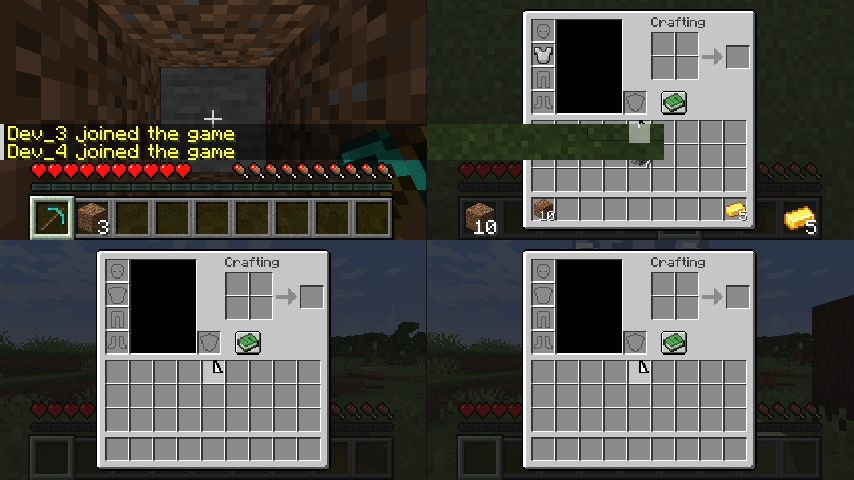
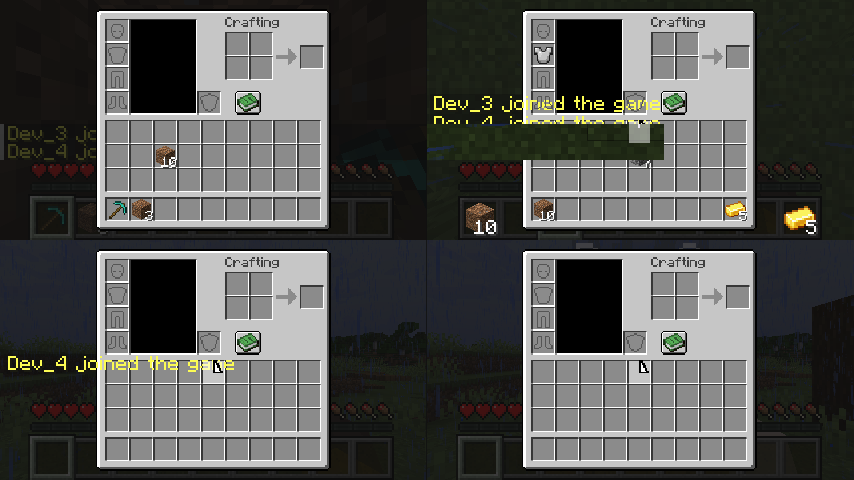
Pantalla de P1 a escala con 4 jugadores (dibujo y raton) + prueba numerica

diff --git a/src/main/java/dev/consolepad/split/AutoTest.java b/src/main/java/dev/consolepad/split/AutoTest.java
@@ -1036,6 +1036,38 @@ public final class AutoTest {
                 + " " + SplitDiag.hudWrongWhat(), missing.length() == 0 && SplitDiag.hudWrong() == 0);
     }
 
+    /** P1 con 4 jugadores: su inventario cabe en su cuadrante (escala < 1) y un clic por la ruta real del raton coge el objeto. */
+    private static void mtP1Inventory(Minecraft mc, boolean start) {
+        var win = mc.getWindow();
+        var mouse = (dev.consolepad.mixin.MouseHandlerInvoker) mc.mouseHandler;
+        if (start) {
+            boolean open = mc.screen instanceof net.minecraft.client.gui.screens.inventory.InventoryScreen;
+            if (!open) {
+                mtVerdict("P1: inventario abierto en su cuadrante", false);
+                return;
+            }
+            var scr = (net.minecraft.client.gui.screens.inventory.AbstractContainerScreen<?>) mc.screen;
+            float k = SplitView.p1ScreenScale;
+            int[] r = SplitView.p1Gui;
+            int lw = Math.round(r[2] / k), lh = Math.round(r[3] / k);
+            boolean sized = scr.width == lw && scr.height == lh;
+            boolean fits = scr.getGuiLeft() >= 0 && scr.getGuiTop() >= 0 && scr.getGuiLeft() + 176 <= lw && scr.getGuiTop() + 166 <= lh;
+            mtVerdict("P1: inventario en su cuadrante (" + r[2] + "x" + r[3] + " unidades, escala " + String.format(java.util.Locale.ROOT, "%.2f", k) + ", logico " + lw + "x" + lh
+                    + "): tamano logico=" + sized + ", cabe entero=" + fits, k < 1f && sized && fits);
+            net.minecraft.world.inventory.Slot sl = scr.getMenu().slots.get(20);
+            double gx = (scr.getGuiLeft() + sl.x + 8) * k, gy = (scr.getGuiTop() + sl.y + 8) * k; // unidades de GUI de la ventana
+            double sx = gx * win.getScreenWidth() / win.getGuiScaledWidth(), sy = gy * win.getScreenHeight() / win.getGuiScaledHeight();
+            mouse.consolepad$onMove(win.getWindow(), sx, sy);
+            mouse.consolepad$onPress(win.getWindow(), org.lwjgl.glfw.GLFW.GLFW_MOUSE_BUTTON_LEFT, org.lwjgl.glfw.GLFW.GLFW_PRESS, 0);
+        } else {
+            ItemStack carried = mc.player.containerMenu.getCarried();
+            mouse.consolepad$onPress(win.getWindow(), org.lwjgl.glfw.GLFW.GLFW_MOUSE_BUTTON_LEFT, org.lwjgl.glfw.GLFW.GLFW_RELEASE, 0);
+            mtVerdict("P1: clic real del raton sobre un hueco de su inventario escalado: objeto en el cursor = " + carried.getItem() + " x" + carried.getCount() + " (10 de tierra)",
+                    carried.is(Items.DIRT) && carried.getCount() == 10);
+            mc.setScreen(null);
+        }
+    }
+
     private static void mtOpenInventory(Minecraft mc, PlayerContext c) {
         ContextSwitcher.run(c, () -> mc.setScreen(new net.minecraft.client.gui.screens.inventory.InventoryScreen(c.player)));
     }
@@ -1121,6 +1153,11 @@ public final class AutoTest {
                 if (ticks == 20) mtRecordStart();
                 if (ticks == 32) {
                     mtEvaluate(mc, 4);
+                    mc.getSingleplayerServer().execute(() -> {
+                        p1.getInventory().setItem(20, new ItemStack(Items.DIRT, 10));
+                        p1.getInventory().setItem(21, ItemStack.EMPTY);
+                    });
+                    mc.setScreen(new net.minecraft.client.gui.screens.inventory.InventoryScreen(mc.player)); // P1 tambien, en su cuadrante
                     mtOpenInventory(mc, SecondaryPlayers.context(1));
                     mtOpenInventory(mc, SecondaryPlayers.context(2));
                     mtOpenInventory(mc, SecondaryPlayers.context(3));
@@ -1137,6 +1174,10 @@ public final class AutoTest {
                     mtCheckInventoryFits(mc, SecondaryPlayers.context(1));
                     mtCheckInventoryFits(mc, SecondaryPlayers.context(2));
                     mtCheckInventoryFits(mc, SecondaryPlayers.context(3));
+                    mtP1Inventory(mc, true);
+                }
+                if (ticks == 26) {
+                    mtP1Inventory(mc, false);
                     mc.options.renderDistance().set(8);
                     mc.options.enableVsync().set(false);
                     mc.options.framerateLimit().set(260);

diff --git a/src/main/java/dev/consolepad/mixin/GameRendererMixin.java b/src/main/java/dev/consolepad/mixin/GameRendererMixin.java
@@ -54,6 +54,29 @@ public abstract class GameRendererMixin {
         return ContextSwitcher.handOr(self.itemInHandRenderer);
     }
 
+    /** La pantalla de P1 se dibuja a la escala de su region (con 4 jugadores < 1) y con la posicion del raton en unidades logicas. */
+    @Redirect(method = "render",
+            at = @At(value = "INVOKE", target = "Lnet/neoforged/neoforge/client/ClientHooks;drawScreen(Lnet/minecraft/client/gui/screens/Screen;Lnet/minecraft/client/gui/GuiGraphics;IIF)V"))
+    private void consolepad$scaledP1Screen(net.minecraft.client.gui.screens.Screen screen, net.minecraft.client.gui.GuiGraphics graphics, int mouseX, int mouseY, float partial) {
+        float k = SplitView.p1Scale();
+        if (k >= 1f) {
+            net.neoforged.neoforge.client.ClientHooks.drawScreen(screen, graphics, mouseX, mouseY, partial);
+            return;
+        }
+        int oldW = SplitView.guiWidth, oldH = SplitView.guiHeight;
+        graphics.pose().pushPose();
+        graphics.pose().scale(k, k, 1f);
+        SplitView.guiWidth = screen.width;
+        SplitView.guiHeight = screen.height;
+        try {
+            net.neoforged.neoforge.client.ClientHooks.drawScreen(screen, graphics, Math.round(mouseX / k), Math.round(mouseY / k), partial);
+        } finally {
+            SplitView.guiWidth = oldW;
+            SplitView.guiHeight = oldH;
+            graphics.pose().popPose();
+        }
+    }
+
     /** Campo de vision propio de cada jugador: se escala por (FOV del jugador / FOV global); la mano (useFOVSetting = false) no cambia. */
     @Inject(method = "getFov", at = @At("RETURN"), cancellable = true)
     private void consolepad$ownFov(net.minecraft.client.Camera camera, float partialTicks, boolean useFovSetting, CallbackInfoReturnable<Double> cir) {

diff --git a/src/main/java/dev/consolepad/mixin/MouseHandlerMixin.java b/src/main/java/dev/consolepad/mixin/MouseHandlerMixin.java
@@ -1,0 +1,30 @@
+package dev.consolepad.mixin;
+
+import com.mojang.blaze3d.platform.Window;
+import dev.consolepad.split.SplitView;
+import net.minecraft.client.MouseHandler;
+import org.spongepowered.asm.mixin.Mixin;
+import org.spongepowered.asm.mixin.injection.At;
+import org.spongepowered.asm.mixin.injection.Redirect;
+
+/**
+ * Con 4 jugadores la pantalla de P1 se dibuja a escala k < 1 para caber en su cuadrante: sus coordenadas logicas son las de la
+ * ventana divididas por k. Mientras eso ocurre, el ancho y alto de GUI que usa MouseHandler para convertir la posicion del raton
+ * son los logicos (clic, scroll, arrastre), como si la interfaz fuera mayor.
+ */
+@Mixin(MouseHandler.class)
+public abstract class MouseHandlerMixin {
+    @Redirect(method = {"onPress", "onScroll", "handleAccumulatedMovement"},
+            at = @At(value = "INVOKE", target = "Lcom/mojang/blaze3d/platform/Window;getGuiScaledWidth()I"))
+    private int consolepad$logicalWidth(Window window) {
+        float k = SplitView.p1Scale();
+        return k < 1f ? Math.round(window.getGuiScaledWidth() / k) : window.getGuiScaledWidth();
+    }
+
+    @Redirect(method = {"onPress", "onScroll", "handleAccumulatedMovement"},
+            at = @At(value = "INVOKE", target = "Lcom/mojang/blaze3d/platform/Window;getGuiScaledHeight()I"))
+    private int consolepad$logicalHeight(Window window) {
+        float k = SplitView.p1Scale();
+        return k < 1f ? Math.round(window.getGuiScaledHeight() / k) : window.getGuiScaledHeight();
+    }
+}

diff --git a/src/main/java/dev/consolepad/split/SplitView.java b/src/main/java/dev/consolepad/split/SplitView.java
@@ -18,6 +18,13 @@ public final class SplitView {
     public static volatile boolean enabled = true;
     /** True mientras la pantalla de P1 se encaja en la mitad izquierda (hay un P2 dibujandose); la fija SplitHud. */
     public static volatile boolean p1HalfScreen;
+    /** Escala con la que se dibujan las pantallas de P1 para caber en su region (1 = normal; con 4 jugadores < 1). */
+    public static volatile float p1ScreenScale = 1f;
+
+    /** Escala de pantalla de P1 que esta en vigor (1 si no hay pantalla dividida). */
+    public static float p1Scale() {
+        return p1HalfScreen ? p1ScreenScale : 1f;
+    }
 
     private SplitView() {}
 

diff --git a/src/main/java/dev/consolepad/split/SplitHud.java b/src/main/java/dev/consolepad/split/SplitHud.java
@@ -33,7 +33,7 @@ public final class SplitHud {
         final net.minecraft.client.multiplayer.ClientLevel p1Level = mc.level;
         final float partial = deltaTracker.getGameTimeDeltaPartialTick(false);
         try {
-            fitP1Screen(mc, r1[2], r1[3]);
+            fitP1Screen(mc, Math.round(r1[2] / SplitView.p1ScreenScale), Math.round(r1[3] / SplitView.p1ScreenScale));
             SplitView.guiWidth = r1[2];
             SplitView.guiHeight = r1[3];
             SplitDiag.hudOwner = "P1";

diff --git a/src/main/java/dev/consolepad/split/SplitLayout.java b/src/main/java/dev/consolepad/split/SplitLayout.java
@@ -37,6 +37,7 @@ public final class SplitLayout {
         int H = win.getHeight();
         SplitView.p1Gui = gui[0];
         SplitView.p1Px = new int[] {pix[0][0], H - (pix[0][1] + pix[0][3]), pix[0][2], pix[0][3]};
+        SplitView.p1ScreenScale = Math.min(1f, Math.min(gui[0][3] / MIN_SCREEN_H, gui[0][2] / MIN_SCREEN_W));
         for (int i = 0; i < extras.size(); i++) {
             PlayerContext c = extras.get(i);
             c.gx = gui[i + 1][0];

diff --git a/routing-log.md b/routing-log.md
@@ -14,7 +14,7 @@ Pantalla dividida local de 2 a 4 jugadores **funcionando de principio a fin** (2
 3. **Inventario de P2:** botón Y (inventario): stick izquierdo = cursor, A = coger/soltar, X = clic derecho, Y = mover rápido, stick derecho = scroll, B/Start = cerrar; D-pad = saltar de hueco en hueco (sin medir).
 4. **Pausa de P2:** Start abre su menú (Volver / Campo de visión / Sensibilidad / Salir); el mundo no se debe parar; la pausa de P1 (Esc) tampoco lo para.
 5. **Mano y HUD:** cada mitad debe mostrar su propia mano, objeto, vida, comida, armadura, experiencia y nombre del objeto; correr con P1 no debe cambiar el campo de visión de P2.
-6. **3 y 4 mandos:** Start+Back en los mandos 3 y 4; comprobar la partición (3 = mitad + dos cuartos, 4 = cuadrantes) y que el inventario de cada uno cabe en su zona. Con 4 jugadores el inventario de P1 se sale de su cuadrante (pendiente conocido).
+6. **3 y 4 mandos:** Start+Back en los mandos 3 y 4; comprobar la partición (3 = mitad + dos cuartos, 4 = cuadrantes) y que el inventario de cada uno cabe en su zona. Con 4 jugadores el inventario de P1 se dibuja a escala 0,67 en su cuadrante: probar a mano que el ratón y el cursor del mando 1 acierten en los huecos.
 7. **Fluidez:** FPS con 2, 3 y 4 jugadores en tu equipo (en la prueba, a 854×480 y distancia 8: ≈1600, ≈765 y ≈408) y redimensionar la ventana con la partida abierta.
 8. **Avisos:** un mensaje enviado solo a un extra (por ejemplo `/tell Dev_2 hola`) debe verse en su zona y no en la de P1.
 9. **El "atacan los dos" que viste jugando** no se reproduce por software: si vuelve, lanzar con `CONSOLEPAD_PADLOG=1` y mirar `[padlog]`.
@@ -58,3 +58,4 @@ Pantalla dividida local de 2 a 4 jugadores **funcionando de principio a fin** (2
 | 2026-10-08 | 4f (parte 1, refactor): jugadores extra indexados (slots 1-3 = P2-P4): `SecondaryPlayers` con 3 entradas (conexion + contexto), `PlayerContext` con `slotIndex`, entrada propia (`InputState`) y region propia; `SecondaryTick.tick(slot, ctx)` por jugador; `SplitLayout` (2 = mitades, 3 = mitad + dos cuartos, 4 = cuadrantes; en unidades de GUI y en pixeles; `screenScale` para que las pantallas quepan); `SplitRender`/`SplitHud` por lista de contextos con `GuiGraphics.guiHeight` por region; `SecondaryScreens` por contexto con escala; atajo Start+Back por slot 1..3; comandos `/consolepad join2..4` y `leave2..4`; el mundo no se pausa con cualquier extra dentro (`anyActive`) | Sonnet 5.5 (nivel por defecto) | 1. Refactor puro con n=2: el autotest completo sigue en OK (todas las comprobaciones de HUD, acciones, pantallas, menus, entrada/salida, aspecto, pausa, salida/reentrada, salir del mundo), 0 errores. Las pruebas con 3 y 4 jugadores van en la parte 2 | Alto (~30 llamadas; reescritura de 6 clases) |
 | 2026-10-08 | 4f (parte 2): pruebas con 3 y 4 jugadores (`multiTest`): P3 y P4 entran por conexion en memoria; por tamano se mide aspecto por region (pasadas P1..Pn con 0 muestras fuera de tolerancia), que las regiones cubren la ventana sin solapes (area = ventana), HUD completo por jugador (10 capas cada uno, 0 con datos del jugador equivocado), que el inventario de cada extra cabe entero en su region (escala 0,67, logico 321x180), FPS, y salida ordenada de P4 y P3 volviendo a 2 jugadores | Sonnet 5.5 (nivel por defecto) | 1. Todo OK a la primera: 3 jugadores = P1 mitad izquierda (427x480), P2 arriba derecha y P3 abajo derecha (427x240); 4 jugadores = cuadrantes 427x240; inventarios de P2-P4 abiertos a la vez caben en su region; P4 sale (3 dibujados), P3 sale (2 dibujados, P2 sigue); resto del autotest OK, 0 errores. FPS (distancia 8, sin vsync, 854x480): 2 jugadores 1615, 3 jugadores 765, 4 jugadores 408 (coste ~ proporcional al numero de jugadores). Captura `docs/split-four-screens-4f.png`. PENDIENTE: con 4 jugadores la pantalla de P1 (inventario) NO se escala (su region es 213x120 unidades y el inventario vanilla mide 176x166: se saldria de su cuadrante); requiere reescalar las coordenadas del raton de P1 (`MouseHandler`) y se deja como pendiente; los inventarios de P2-P4 ya se escalan | Medio (~20 llamadas) |
 | 2026-10-08 | 4g: avisos y ajustes por jugador: `SplitNotices` (chat, barra de acciones y titulo que recibe cada extra se guardan en su `PlayerContext` y se dibujan en su region; el chat de P1 no los recibe), FOV propio por jugador (`PadSettings.fov`; `GameRendererMixin.getFov` escala por FOV propio / global solo con `useFOVSetting`, la mano no cambia; `SplitRender.passSlot`), menu de pausa de cada extra con "Campo de vision" y "Sensibilidad" (`P2PauseScreen(slot)`) + `notesTest` | Sonnet 5.5 (nivel por defecto) | 3 ejecuciones. 1.ª: todo OK salvo `titulo=false`. Causa (FALLO REAL de aislamiento, anterior a 4g): el proxy del listener de P2 solo reenviaba a su contexto los metodos llamados `handle*`, pero en 1.21.1 hay 4 manejadores con otro nombre (`setTitleText`, `setSubtitleText`, `setTitlesAnimation`, `setActionBarText`) que se procesaban con los datos de P1 -> el titulo de P2 aparecia en la pantalla de P1. Corregido: se reenvia cualquier metodo con un unico argumento `Packet` (menos `shouldHandleMessage`). 2.ª: todo OK. Resultado: avisos de P2 (chat propio, mensaje sobre la barra, titulo) en su contexto y dibujados (5 capas), chat y titulo de P1 sin los de P2; FOV P1=90 y P2=60 medidos en la proyeccion de cada pasada, sin mezcla; desde el menu de P2 el FOV pasa a 60 y la velocidad de giro a 225 sin tocar a P1; 0 errores. PENDIENTE de 4g: escribir en el chat con mando (teclado en pantalla) y chat con historial por jugador | Alto (~30 llamadas) |
+| 2026-10-08 | Pendiente de 4f cerrado: pantalla de P1 con 4 jugadores a escala (`SplitView.p1ScreenScale`, `SplitLayout`; `GameRendererMixin` redirige `ClientHooks.drawScreen` con pose escalada y raton logico; `MouseHandlerMixin` usa ancho/alto de GUI logicos en `onPress/onScroll/handleAccumulatedMovement`; `SplitHud.fitP1Screen` a tamano logico) + prueba en `multiTest` | Sonnet 5.5 (nivel por defecto) | 1. Con 4 jugadores el inventario de P1 mide 320x180 logicos en un cuadrante de 213x120 (escala 0,67), cabe entero, y un clic por la ruta real de `MouseHandler` (movimiento + pulsacion) sobre un hueco coge las 10 de tierra; resto del autotest OK (66 resultados, 0 fallos), 0 errores | Medio (~12 llamadas) |

diff --git a/docs/splitscreen-roadmap.md b/docs/splitscreen-roadmap.md
@@ -14,7 +14,7 @@ Complementa `docs/splitscreen-plan.md` (diseño y prototipo, pasos 1-7). Primero
 | 4c Inventario, cofre y mesa de crafteo por jugador, en su región, con cursor propio (clic, arrastre, mover rápido, scroll, cerrar) | [V] inventario, cofre, mesa; horno y demás usan la misma ruta [S] |
 | 4d Menú de pausa por jugador sin pausar el mundo; "Salir" saca solo a ese jugador | [V] D-pad de los menús de P2-P4 [S] |
 | 4e Entrar con Start+Back y salir manteniéndolo 2 s | [V] simulado; con mando físico [S]; P3/P4 por atajo [S] (por comando y `join` [V]) |
-| 4f 3 y 4 jugadores: regiones, HUD, inventarios escalados a su región, FPS | [V] |
+| 4f 3 y 4 jugadores: regiones, HUD, inventarios escalados a su región (también el de P1, con el ratón reescalado), FPS | [V] |
 | 4g Avisos propios (chat, barra de acciones, título) y FOV y sensibilidad por jugador desde su menú | [V] |
 | Aislamiento P1 ↔ extras | [V] clic de ratón, teclas de sprint/agacharse, FOV al correr, títulos, inventario, chat |
 
@@ -22,7 +22,6 @@ FPS (distancia 8, sin vsync, 854×480): 1 jugador ≈ 3300, 2 jugadores ≈ 1600
 
 ## 1. Pendientes (con el motivo)
 
-- **Pantalla de P1 con 4 jugadores:** su región mide 213×120 unidades y el inventario vanilla 176×166, así que se sale de su cuadrante. Los inventarios de P2-P4 sí se escalan (0,67). Arreglarlo exige reescalar las coordenadas del ratón de P1 en `MouseHandler` (`onMove/onPress/onScroll`) además de dibujar con escala. Riesgo medio, se deja para después.
 - **Maniquí del jugador en el inventario de P2-P4:** el recuadro sale vacío (el de P1 sí se dibuja). No bloquea; causa sin identificar (probable skin/`PlayerInfo` del jugador extra o estado de render de entidad).
 - **Escribir en el chat con mando:** hace falta un teclado en pantalla; el chat con historial por jugador tampoco existe (hoy: últimos 5 avisos por jugador, sin entrada de texto).
 - **HUD de P2-P4 que sigue siendo solo de P1:** superposiciones de cámara (viñeta, calabaza, portal), cabalgadura (barra de salto, vida del vehículo), bossbars, marcador, depuración y lista de jugadores.
